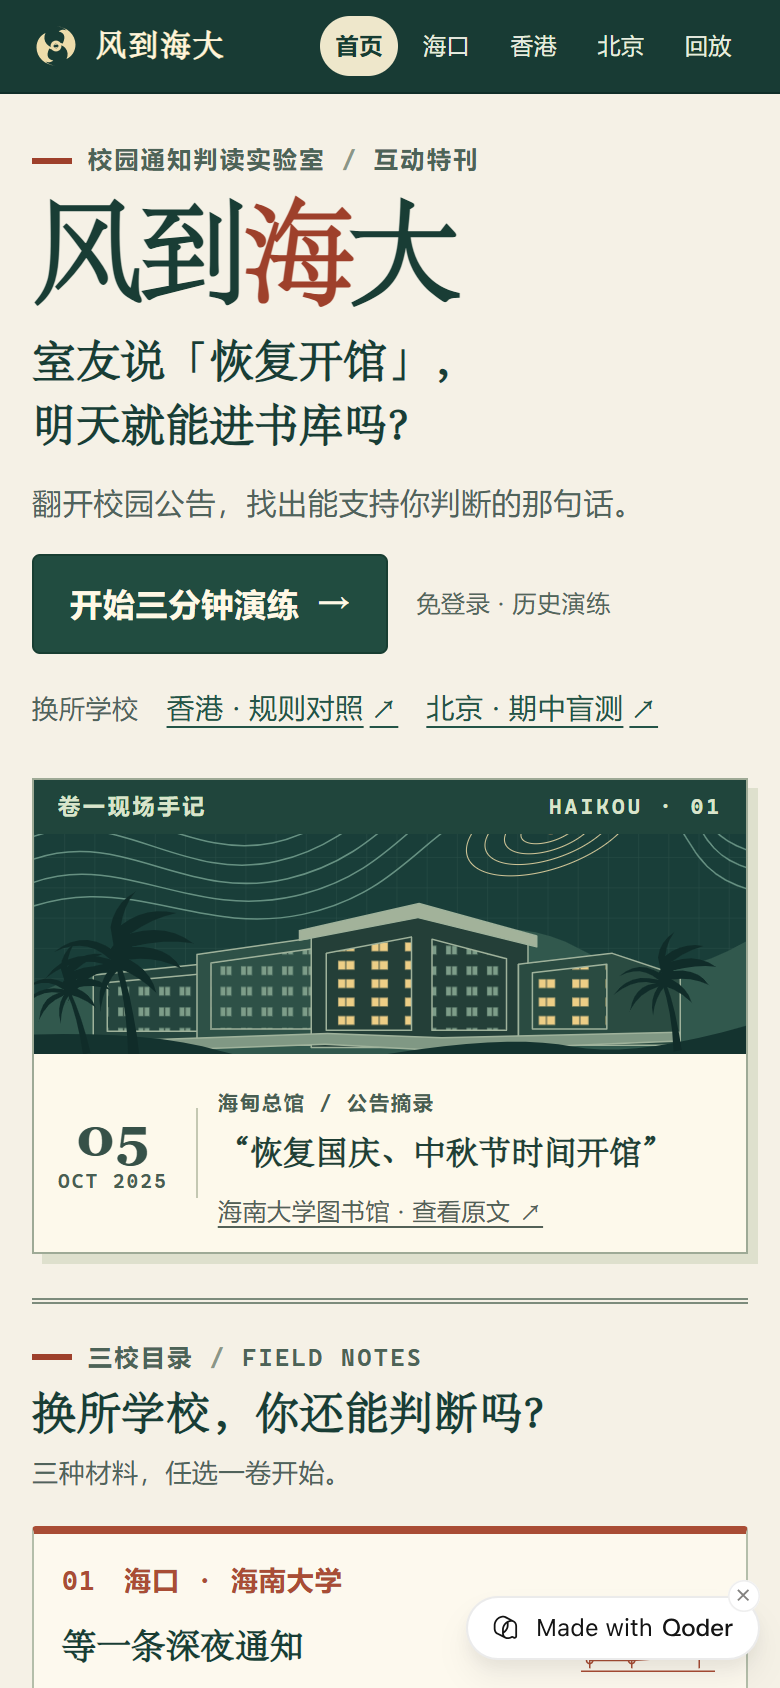
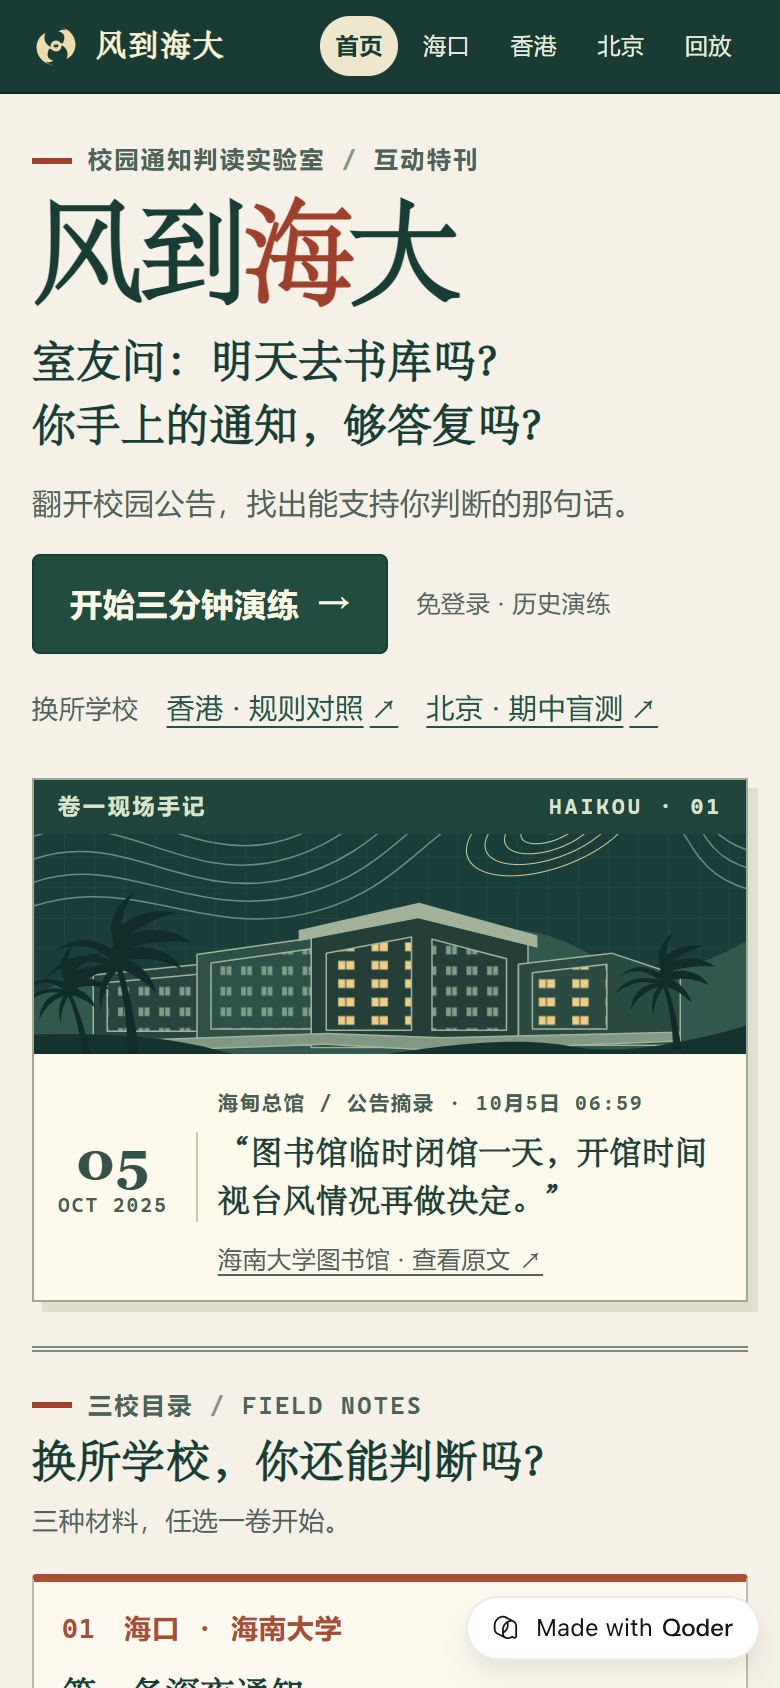
更新试玩邀请和首页截图，保留海口第三关悬念

diff --git a/README.md b/README.md
@@ -1,6 +1,6 @@
 # 风到海大｜校园通知判读实验室
 
-室友转来一条“恢复开馆”的通知，明天就能进书库吗？
+室友问：“明天去书库吗？”你手上的通知，够答复吗？
 
 **[直接试玩 ↗](https://campus-notice-lab-qy6hac0dpwr.qoder.zone/)** · [写一条试玩反馈](https://github.com/yuanwenhao468-jpg/fengdao-haida-playtest/issues/new?template=playtest.yml)
 
